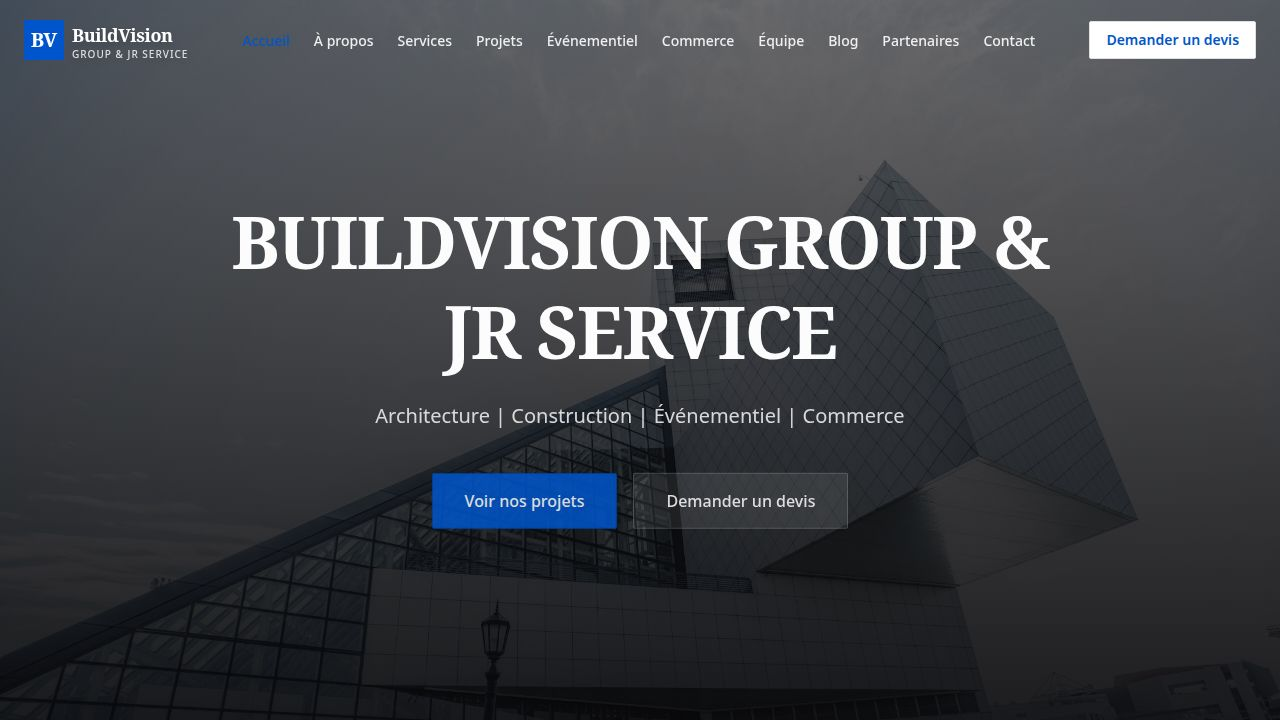
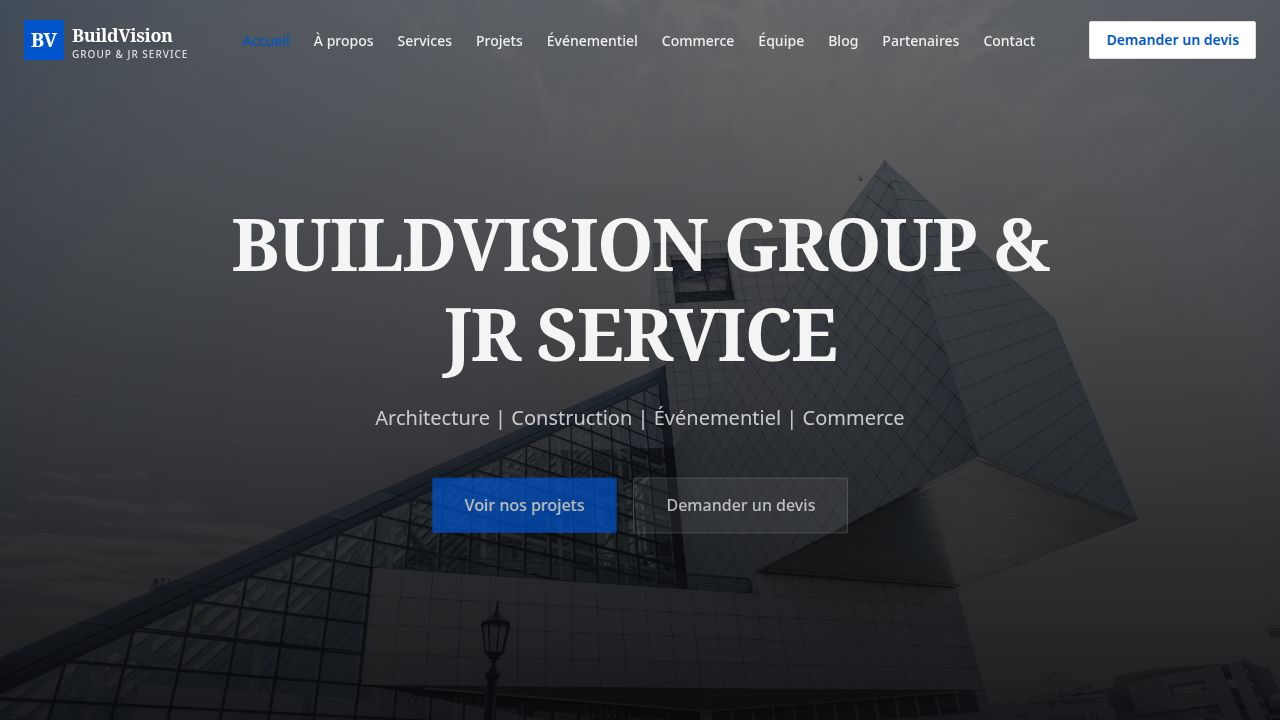
Improve website visuals and add company information management
Enhance the home page hero section with an auto-rotating slider and add company logo display to the layout headers.

Replit-Commit-Author: Agent
Replit-Commit-Session-Id: 6b56ff56-3bcc-4cb1-a54a-4e01378b87f9
Replit-Commit-Checkpoint-Type: full_checkpoint
Replit-Commit-Event-Id: 636b206a-e824-46fc-a9a6-710e6a2750d7
Replit-Commit-Screenshot-Url: https://storage.googleapis.com/screenshot-production-us-central1/5c7c69f1-f302-47c8-88ee-388fe96f8a72/6b56ff56-3bcc-4cb1-a54a-4e01378b87f9/XFrZ9t7
Replit-Helium-Checkpoint-Created: true

diff --git a/artifacts/buildvision/src/pages/Home.tsx b/artifacts/buildvision/src/pages/Home.tsx
@@ -1,66 +1,137 @@
 import { Link } from "wouter";
+import { useEffect, useState } from "react";
 import { 
   useListHeroSlides, 
   useGetPublicStats, 
-  useListServices, 
-  useListProjects, 
-  useListTestimonials, 
-  useListPartners 
 } from "@workspace/api-client-react";
 import { Button } from "@/components/ui/button";
-import { ArrowRight, ArrowUpRight, Building2, HardHat, Briefcase, Calendar } from "lucide-react";
+import { ArrowRight, ChevronLeft, ChevronRight } from "lucide-react";
 
-export default function Home() {
-  const { data: slides } = useListHeroSlides({ activeOnly: true });
-  const { data: stats } = useGetPublicStats();
-  const { data: services } = useListServices();
-  const { data: featuredProjects } = useListProjects({ featured: true });
-  const { data: testimonials } = useListTestimonials();
-  const { data: partners } = useListPartners();
-
-  const currentSlide = slides?.[0] || {
+const FALLBACK_SLIDES = [
+  {
     title: "Bâtir l'Avenir",
     subtitle: "Excellence en ingénierie et construction en Afrique de l'Ouest",
     image: "https://images.unsplash.com/photo-1486406146926-c627a92ad1ab?q=80&w=2070&auto=format&fit=crop",
-    button1Text: "Nos Projets",
-    button1Link: "/projets",
-    button2Text: "Nous Contacter",
-    button2Link: "/contact"
-  };
+    button1Text: "Nos Projets", button1Link: "/projets",
+    button2Text: "Nous Contacter", button2Link: "/contact",
+  },
+  {
+    title: "L'Architecture Réinventée",
+    subtitle: "Des espaces qui transcendent la fonctionnalité pour devenir des lieux de vie",
+    image: "https://images.unsplash.com/photo-1503387762-592deb58ef4e?q=80&w=2070&auto=format&fit=crop",
+    button1Text: "Nos Services", button1Link: "/services",
+    button2Text: "Demander un devis", button2Link: "/devis",
+  },
+  {
+    title: "Construction d'Excellence",
+    subtitle: "De la fondation à la livraison, une expertise reconnue dans toute la sous-région",
+    image: "https://images.unsplash.com/photo-1541888946425-d81bb19240f5?q=80&w=2070&auto=format&fit=crop",
+    button1Text: "Voir nos réalisations", button1Link: "/projets",
+    button2Text: "Notre équipe", button2Link: "/equipe",
+  },
+];
+
+export default function Home() {
+  const { data: slidesData } = useListHeroSlides({ activeOnly: true });
+  const { data: stats } = useGetPublicStats();
+
+  const slides = (slidesData && slidesData.length > 0) ? slidesData : FALLBACK_SLIDES;
+  const [currentIdx, setCurrentIdx] = useState(0);
+
+  useEffect(() => {
+    if (slides.length <= 1) return;
+    const t = setInterval(() => setCurrentIdx((i) => (i + 1) % slides.length), 6000);
+    return () => clearInterval(t);
+  }, [slides.length]);
+
+  const goPrev = () => setCurrentIdx((i) => (i - 1 + slides.length) % slides.length);
+  const goNext = () => setCurrentIdx((i) => (i + 1) % slides.length);
 
   return (
     <div className="w-full">
-      {/* Hero */}
-      <section className="relative h-screen flex items-center justify-center overflow-hidden">
-        <div 
-          className="absolute inset-0 bg-cover bg-center"
-          style={{ backgroundImage: `url(${currentSlide.image})` }}
-        />
-        <div className="absolute inset-0 bg-zinc-950/60 bg-gradient-to-t from-zinc-950/80 to-transparent" />
-        
-        <div className="relative z-10 container mx-auto px-4 md:px-6 text-center text-white">
-          <h1 className="text-4xl md:text-6xl lg:text-7xl font-serif font-bold tracking-tight mb-6 max-w-4xl mx-auto leading-tight animate-in fade-in slide-in-from-bottom-8 duration-1000">
-            {currentSlide.title}
-          </h1>
-          <p className="text-lg md:text-xl text-zinc-200 mb-10 max-w-2xl mx-auto animate-in fade-in slide-in-from-bottom-8 duration-1000 delay-150">
-            {currentSlide.subtitle}
-          </p>
-          <div className="flex flex-col sm:flex-row items-center justify-center gap-4 animate-in fade-in slide-in-from-bottom-8 duration-1000 delay-300">
-            {currentSlide.button1Text && (
-              <Link href={currentSlide.button1Link || "#"}>
-                <Button size="lg" className="h-14 px-8 text-base w-full sm:w-auto">
-                  {currentSlide.button1Text}
-                </Button>
-              </Link>
-            )}
-            {currentSlide.button2Text && (
-              <Link href={currentSlide.button2Link || "#"}>
-                <Button size="lg" variant="outline" className="h-14 px-8 text-base w-full sm:w-auto bg-white/10 text-white border-white/20 hover:bg-white hover:text-zinc-950">
-                  {currentSlide.button2Text}
-                </Button>
-              </Link>
-            )}
+      {/* Hero Slider */}
+      <section className="relative h-screen min-h-[600px] flex items-center justify-center overflow-hidden bg-zinc-950">
+        {slides.map((slide, idx) => (
+          <div
+            key={idx}
+            className={`absolute inset-0 transition-opacity duration-[1500ms] ease-in-out ${idx === currentIdx ? "opacity-100" : "opacity-0"}`}
+            aria-hidden={idx !== currentIdx}
+          >
+            <div
+              className={`absolute inset-0 bg-cover bg-center transition-transform duration-[7000ms] ease-out ${idx === currentIdx ? "scale-110" : "scale-100"}`}
+              style={{ backgroundImage: `url(${slide.image})` }}
+            />
+            <div className="absolute inset-0 bg-gradient-to-b from-zinc-950/70 via-zinc-950/40 to-zinc-950/90" />
           </div>
+        ))}
+
+        <div className="relative z-10 container mx-auto px-4 md:px-6 text-center text-white">
+          <div key={currentIdx} className="animate-in fade-in slide-in-from-bottom-6 duration-1000">
+            <div className="inline-flex items-center gap-2 px-4 py-1.5 rounded-full bg-white/10 backdrop-blur-md border border-white/20 mb-8 text-xs font-medium tracking-widest uppercase">
+              <span className="w-1.5 h-1.5 rounded-full bg-primary animate-pulse" />
+              BuildVision Group & JR Service
+            </div>
+            <h1 className="text-4xl md:text-6xl lg:text-7xl font-serif font-bold tracking-tight mb-6 max-w-5xl mx-auto leading-[1.05]">
+              {slides[currentIdx].title}
+            </h1>
+            <p className="text-base md:text-xl text-zinc-200 mb-10 max-w-2xl mx-auto leading-relaxed">
+              {slides[currentIdx].subtitle}
+            </p>
+            <div className="flex flex-col sm:flex-row items-center justify-center gap-4">
+              {slides[currentIdx].button1Text && (
+                <Link href={slides[currentIdx].button1Link || "#"}>
+                  <Button size="lg" className="h-14 px-8 text-base w-full sm:w-auto shadow-lg shadow-primary/30">
+                    {slides[currentIdx].button1Text}
+                    <ArrowRight className="w-4 h-4 ml-2" />
+                  </Button>
+                </Link>
+              )}
+              {slides[currentIdx].button2Text && (
+                <Link href={slides[currentIdx].button2Link || "#"}>
+                  <Button size="lg" variant="outline" className="h-14 px-8 text-base w-full sm:w-auto bg-white/10 backdrop-blur-md text-white border-white/30 hover:bg-white hover:text-zinc-950">
+                    {slides[currentIdx].button2Text}
+                  </Button>
+                </Link>
+              )}
+            </div>
+          </div>
+        </div>
+
+        {/* Slider controls */}
+        {slides.length > 1 && (
+          <>
+            <button
+              onClick={goPrev}
+              className="hidden md:flex absolute left-6 top-1/2 -translate-y-1/2 z-20 w-12 h-12 rounded-full bg-white/10 backdrop-blur-md border border-white/20 items-center justify-center text-white hover:bg-white hover:text-zinc-950 transition-all"
+              aria-label="Précédent"
+            >
+              <ChevronLeft className="w-5 h-5" />
+            </button>
+            <button
+              onClick={goNext}
+              className="hidden md:flex absolute right-6 top-1/2 -translate-y-1/2 z-20 w-12 h-12 rounded-full bg-white/10 backdrop-blur-md border border-white/20 items-center justify-center text-white hover:bg-white hover:text-zinc-950 transition-all"
+              aria-label="Suivant"
+            >
+              <ChevronRight className="w-5 h-5" />
+            </button>
+
+            <div className="absolute bottom-10 left-1/2 -translate-x-1/2 z-20 flex items-center gap-3">
+              {slides.map((_, idx) => (
+                <button
+                  key={idx}
+                  onClick={() => setCurrentIdx(idx)}
+                  className={`h-1 rounded-full transition-all ${idx === currentIdx ? "w-10 bg-primary" : "w-6 bg-white/40 hover:bg-white/70"}`}
+                  aria-label={`Diapositive ${idx + 1}`}
+                />
+              ))}
+            </div>
+          </>
+        )}
+
+        <div className="absolute bottom-6 right-6 z-20 hidden md:flex items-center gap-2 text-xs text-white/60 font-medium tracking-widest uppercase">
+          <span className="text-white">{String(currentIdx + 1).padStart(2, "0")}</span>
+          <span className="w-8 h-px bg-white/30" />
+          <span>{String(slides.length).padStart(2, "0")}</span>
         </div>
       </section>
 

diff --git a/artifacts/buildvision/src/components/layout/PublicLayout.tsx b/artifacts/buildvision/src/components/layout/PublicLayout.tsx
@@ -49,15 +49,19 @@ export function PublicLayout({ children }: { children: React.ReactNode }) {
         <div className="container mx-auto px-4 md:px-6 flex items-center justify-between">
           <Link href="/">
             <div className="flex items-center gap-2 cursor-pointer group">
-              <div className="w-10 h-10 bg-primary text-primary-foreground flex items-center justify-center font-serif font-bold text-xl rounded-sm group-hover:scale-105 transition-transform">
-                BV
-              </div>
+              {info?.logo ? (
+                <img src={info.logo} alt={info.name || "BuildVision"} className="h-10 w-auto object-contain group-hover:scale-105 transition-transform" />
+              ) : (
+                <div className="w-10 h-10 bg-primary text-primary-foreground flex items-center justify-center font-serif font-bold text-xl rounded-sm group-hover:scale-105 transition-transform">
+                  BV
+                </div>
+              )}
               <div className="flex flex-col leading-none">
                 <span className={`font-serif font-bold text-lg tracking-tight ${isScrolled ? "text-foreground" : "text-white drop-shadow-md"}`}>
-                  BuildVision
+                  {info?.name?.split(" ")[0] || "BuildVision"}
                 </span>
-                <span className={`text-[10px] font-medium tracking-widest uppercase ${isScrolled ? "text-muted-foreground" : "text-white/80 drop-shadow-md"}`}>
-                  Group & JR Service
+                <span className={`text-[10px] font-medium tracking-widest uppercase whitespace-nowrap ${isScrolled ? "text-muted-foreground" : "text-white/80 drop-shadow-md"}`}>
+                  Group &amp; JR Service
                 </span>
               </div>
             </div>
@@ -145,20 +149,24 @@ export function PublicLayout({ children }: { children: React.ReactNode }) {
             {/* Brand */}
             <div className="space-y-6">
               <div className="flex items-center gap-2">
-                <div className="w-10 h-10 bg-primary text-primary-foreground flex items-center justify-center font-serif font-bold text-xl rounded-sm">
-                  BV
-                </div>
+                {info?.logo ? (
+                  <img src={info.logo} alt={info.name || "BuildVision"} className="h-10 w-auto object-contain" />
+                ) : (
+                  <div className="w-10 h-10 bg-primary text-primary-foreground flex items-center justify-center font-serif font-bold text-xl rounded-sm">
+                    BV
+                  </div>
+                )}
                 <div className="flex flex-col leading-none">
                   <span className="font-serif font-bold text-lg tracking-tight text-white">
-                    BuildVision
+                    {info?.name?.split(" ")[0] || "BuildVision"}
                   </span>
-                  <span className="text-[10px] font-medium tracking-widest uppercase text-zinc-500">
-                    Group & JR Service
+                  <span className="text-[10px] font-medium tracking-widest uppercase text-zinc-500 whitespace-nowrap">
+                    Group &amp; JR Service
                   </span>
                 </div>
               </div>
               <p className="text-sm leading-relaxed max-w-xs">
-                Excellence en ingénierie, construction, architecture et événementiel en Afrique de l'Ouest. Bâtissons l'avenir ensemble.
+                {info?.about?.slice(0, 200) || "Excellence en ingénierie, construction, architecture et événementiel en Afrique de l'Ouest. Bâtissons l'avenir ensemble."}
               </p>
             </div>
 
